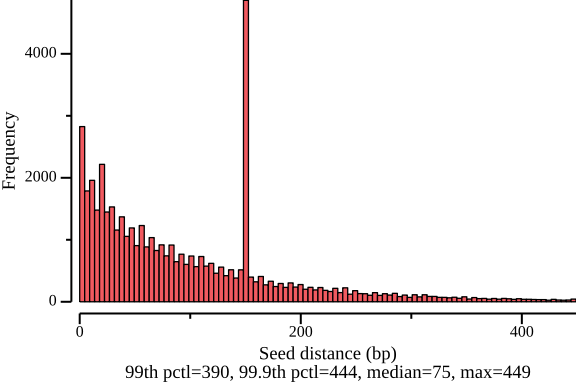
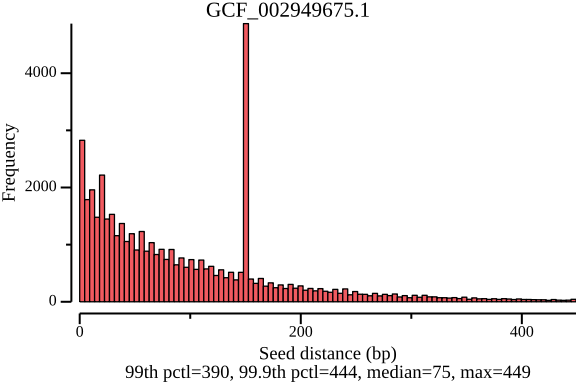
utils seed-pos: Add histograms of numbers of seed in sliding windows

diff --git a/lexicmap/cmd/seed-pos.go b/lexicmap/cmd/seed-pos.go
@@ -22,6 +22,7 @@ package cmd
 
 import (
 	"fmt"
+	"math"
 	"os"
 	"path/filepath"
 	"sort"
@@ -85,8 +86,10 @@ Extra columns:
 
 		outFile := getFlagString(cmd, "out-file")
 		moreColumns := getFlagBool(cmd, "verbose")
-		minDist := getFlagInt(cmd, "min-dist")
+		minDist := getFlagNonNegativeInt(cmd, "min-dist")
 		maxOpenFiles := getFlagPositiveInt(cmd, "max-open-files")
+		step := uint32(getFlagPositiveInt(cmd, "slid-step"))
+		window := uint32(getFlagPositiveInt(cmd, "slid-window"))
 
 		// ------------------------------
 
@@ -295,13 +298,15 @@ Extra columns:
 			var pos2str, pos, pre uint32
 			var dist int
 			var refname string
-			var v plotter.Values
+			var v plotter.Values  // for seed distance
+			var v2 plotter.Values // for number of seed
 			var filePlot string
 			var p *plot.Plot
 			threadsFloat := float64(opt.NumCPUs)
 
 			if outputPlotDir {
 				v = make(plotter.Values, 0, 40<<20)
+				v2 = make(plotter.Values, 0, 40<<10)
 			}
 
 			var tSeq *genome.Genome
@@ -314,6 +319,14 @@ Extra columns:
 			var slen int
 			var ri, rs int
 			var sseqid []byte
+
+			var seqRegion [2]int
+			var ws, we, end uint32 // start position of current window
+			var nSeeds int
+			var locs *[]uint32
+			var nPos, pi, ps int
+			k32p1 := uint32(info.K) - 1
+			var first bool
 
 			// var kp1 int = int(info.K) - 1
 
@@ -374,7 +387,7 @@ Extra columns:
 						continue
 					}
 
-					if outputPlotDir && dist >= 0 {
+					if outputPlotDir {
 						v = append(v, float64(dist))
 					}
 
@@ -394,6 +407,45 @@ Extra columns:
 					fmt.Fprintln(outfh)
 
 					pre = pos
+				}
+
+				// sliding window
+				v2 = v2[:0]
+				locs = ref2locs.Locs
+				nPos = len(*locs)
+				ps = 0
+				for _, seqRegion = range *seqRegions { // each sequence
+					end = uint32(seqRegion[1]) - window
+					// fmt.Printf("seq: %d-%d\n", seqRegion[0], end)
+
+					nSeeds = 0
+					first = true
+					for ws = uint32(seqRegion[0]); ws <= end; ws += step { // each window
+						we = ws + window - k32p1
+						// fmt.Printf("  window: %d-%d\n", ws, we)
+
+						for pi = ps; pi < nPos; pi++ {
+							pos = (*locs)[pi] >> 2
+							// fmt.Printf("    pi:%d, pos:%d\n", pi, pos)
+
+							if first && pos >= ws+step {
+								first = false
+								ps = pi // start index of next window
+								// fmt.Printf("      next ps:%d\n", ps)
+							}
+
+							if pos < we {
+								nSeeds++
+								// fmt.Printf("      in range. nSeeds:%d\n", nSeeds)
+							} else { // out of current window
+								v2 = append(v2, float64(nSeeds))
+								// fmt.Printf("      out range. nSeeds:%d\n", nSeeds)
+								nSeeds = 0
+								first = true
+								break
+							}
+						}
+					}
 				}
 
 				if !outputPlotDir || len(v) == 0 { // no distance > -D
@@ -419,6 +471,8 @@ Extra columns:
 
 				nPlot++
 
+				// -------------------------------------------------------------
+
 				p = plot.New()
 
 				h, err := plotter.NewHist(v, bins)
@@ -436,13 +490,10 @@ Extra columns:
 					p.Title.Text = ""
 				}
 				p.Title.TextStyle.Font.Size = 16
-				//if percentiles {
 				sort.Float64s(v)
 				p.X.Label.Text = fmt.Sprintf("%s\n99th pctl=%.0f, 99.9th pctl=%.0f, median=%.0f, max=%.0f\n",
 					"Seed distance (bp)", getPercentile(0.99, v), getPercentile(0.999, v), getPercentile(0.5, v), v[len(v)-1])
-				// } else {
-				// 	p.X.Label.Text = "Seed distance (bp)"
-				// }
+
 				p.Y.Label.Text = "Frequency"
 				p.X.Label.TextStyle.Font.Size = 14
 				p.Y.Label.TextStyle.Font.Size = 14
@@ -454,8 +505,47 @@ Extra columns:
 				p.Y.Tick.Label.Font.Size = 12
 
 				// Save image
-
 				filePlot = filepath.Join(plotDir, refname+plotExt)
+				checkError(p.Save(width*vg.Inch, height*vg.Inch, filePlot))
+
+				// -------------------------------------------------------------
+
+				p = plot.New()
+
+				h, err = plotter.NewHist(v2, bins)
+				if err != nil {
+					checkError(err)
+				}
+
+				// h.Normalize(1)
+				h.FillColor = plotutil.Color(0)
+				p.Add(h)
+
+				if plotTitle {
+					p.Title.Text = refname
+				} else {
+					p.Title.Text = ""
+				}
+				p.Title.TextStyle.Font.Size = 16
+				sort.Float64s(v)
+				// p.X.Label.Text = fmt.Sprintf("%s\n99th pctl=%.0f, 99.9th pctl=%.0f, median=%.0f, max=%.0f\n",
+				// 	fmt.Sprintf("Number of seeds in %d-bp sliding windows", window), getPercentile(0.99, v2), getPercentile(0.999, v2), getPercentile(0.5, v), v2[len(v2)-1])
+				m, M := minAndMax(v2)
+				p.X.Label.Text = fmt.Sprintf("Number of seeds in %d-bp sliding windows of step %d-bp\nmin=%.0f, max=%.0f",
+					window, step, m, M)
+
+				p.Y.Label.Text = "Frequency"
+				p.X.Label.TextStyle.Font.Size = 14
+				p.Y.Label.TextStyle.Font.Size = 14
+				p.X.Width = 1.5
+				p.Y.Width = 1.5
+				p.X.Tick.Width = 1.5
+				p.Y.Tick.Width = 1.5
+				p.X.Tick.Label.Font.Size = 12
+				p.Y.Tick.Label.Font.Size = 12
+
+				// Save image
+				filePlot = filepath.Join(plotDir, refname+".seed_number"+plotExt)
 				checkError(p.Save(width*vg.Inch, height*vg.Inch, filePlot))
 
 				// ---------------------------------------------------------
@@ -616,14 +706,20 @@ func init() {
 		formatFlagUsage(`Show more columns including position of the previous seed and sequence between the two seeds. `+
 			`Warning: it's slow to extract the sequences, recommend set -D 1000 or higher values to filter results `))
 
-	seedPosCmd.Flags().IntP("min-dist", "D", -1,
+	seedPosCmd.Flags().IntP("min-dist", "D", 0,
 		formatFlagUsage(`Only output records with seed distance >= this value.`))
 
 	seedPosCmd.Flags().IntP("max-open-files", "", 512,
 		formatFlagUsage(`Maximum opened files, used for extracting sequences.`))
 
 	seedPosCmd.Flags().StringP("plot-dir", "O", "",
-		formatFlagUsage(`Output directory for histograms of seed distances.`))
+		formatFlagUsage(`Output directory for 1) histograms of seed distances, 2) histograms of numbers of seed in sliding windows.`))
+
+	seedPosCmd.Flags().IntP("slid-step", "s", 200,
+		formatFlagUsage(`The step size of sliding windows for counting the number of seeds`))
+
+	seedPosCmd.Flags().IntP("slid-window", "w", 500,
+		formatFlagUsage(`The window size of sliding windows for counting the number of seeds`))
 
 	seedPosCmd.Flags().BoolP("force", "", false,
 		formatFlagUsage(`Overwrite existing output directory.`))
@@ -663,4 +759,18 @@ func lengthAAs(s []byte) int {
 		p = b
 	}
 	return n
+}
+
+func minAndMax(vals []float64) (m, M float64) {
+	m = math.MaxFloat64
+	M = 0
+	for _, v := range vals {
+		if v > M {
+			M = v
+		}
+		if v < m {
+			m = v
+		}
+	}
+	return m, M
 }

diff --git a/docs/content/usage/utils/seed-pos.md b/docs/content/usage/utils/seed-pos.md
@@ -37,13 +37,18 @@ Flags:
   -h, --help                 help for seed-pos
   -d, --index string         ► Index directory created by "lexicmap index".
       --max-open-files int   ► Maximum opened files, used for extracting sequences. (default 512)
-  -D, --min-dist int         ► Only output records with seed distance >= this value. (default -1)
+  -D, --min-dist int         ► Only output records with seed distance >= this value.
   -o, --out-file string      ► Out file, supports and recommends a ".gz" suffix ("-" for stdout).
                              (default "-")
-  -O, --plot-dir string      ► Output directory for histograms of seed distances.
+  -O, --plot-dir string      ► Output directory for 1) histograms of seed distances, 2) histograms of
+                             numbers of seed in sliding windows.
       --plot-ext string      ► Histogram plot file extention. (default ".png")
   -t, --plot-title           ► Plot genome ID as the title.
   -n, --ref-name strings     ► Reference name(s).
+  -s, --slid-step int        ► The step size of sliding windows for counting the number of seeds
+                             (default 200)
+  -w, --slid-window int      ► The window size of sliding windows for counting the number of seeds
+                             (default 500)
   -v, --verbose              ► Show more columns including position of the previous seed and sequence
                              between the two seeds. Warning: it's slow to extract the sequences,
                              recommend set -D 1000 or higher values to filter results
@@ -119,11 +124,13 @@ Global Flags:
 
     - GCF_000017205.1 (genome size: 6.6 Mb)
 
-        <img src="/LexicMap/GCF_000017205.1.png" alt="" width="600"/>
+        <img src="/LexicMap/GCF_000017205.1.png" alt="" width="400"/>
+        <img src="/LexicMap/GCF_000017205.1.seed_number.png" alt="" width="400"/>
 
     - GCF_002949675.1 (genome size: 4.6 Mb)
 
-        <img src="/LexicMap/GCF_002949675.1.png" alt="" width="600"/>
+        <img src="/LexicMap/GCF_002949675.1.png" alt="" width="400"/>
+        <img src="/LexicMap/GCF_002949675.1.seed_number.png" alt="" width="400"/>
 
 2. More columns including sequences between two seeds.
 
@@ -173,7 +180,8 @@ Global Flags:
 
     Plot the histograms of distances between seeds for all genomes.
 
-        $ lexicmap utils seed-pos -d demo.lmi/ --all-refs -o seed-pos.tsv.gz --plot-dir seed_distance --force
+        $ lexicmap utils seed-pos -d demo.lmi/ --all-refs -o seed-pos.tsv.gz \
+            --plot-dir seed_distance --plot-title --force
         processed files:  15 / 15 [======================================] ETA: 0s. done
         11:48:31.346 [INFO] seed positions of 15 genomes(s) saved to seed-pos.tsv.gz
         11:48:31.346 [INFO] histograms of 15 genomes(s) saved to seed_distance

diff --git a/docs/content/faqs/_index.md b/docs/content/faqs/_index.md
@@ -6,7 +6,13 @@ weight: 60
 ### Does LexicMap support fungi genomes?
 
 Yes. LexicMap mainly supports small genomes including prokaryotic, viral, and plasmid genomes.
-Fungi can also be supported.
+Fungi can also be supported, just remember to increase the value of `-g/--max-genome` when running `lexicmap index`,
+which is used to skip genomes larger than 15Mb by default.
+
+```
+  -g, --max-genome int            ► Maximum genome size. Extremely large genomes (e.g., non-isolate
+                                  assemblies from Genbank) will be skipped. (default 15000000)
+```
 
 For big and complex genomes, like the human genome which has many repetitive sequences, LexicMap would be slow to align.
 

diff --git a/CHANGELOG.md b/CHANGELOG.md
@@ -24,6 +24,7 @@
 - `lexicmap utils seed-pos`:
     - New columns: `sseqid` and `pos_seq`
     - More accurate seed distance.
+    - Add histograms of numbers of seed in sliding windows.
 - New commands:
     - **`lexicmap utils 2blast`: Convert the default search output to blast-style format**.
 
